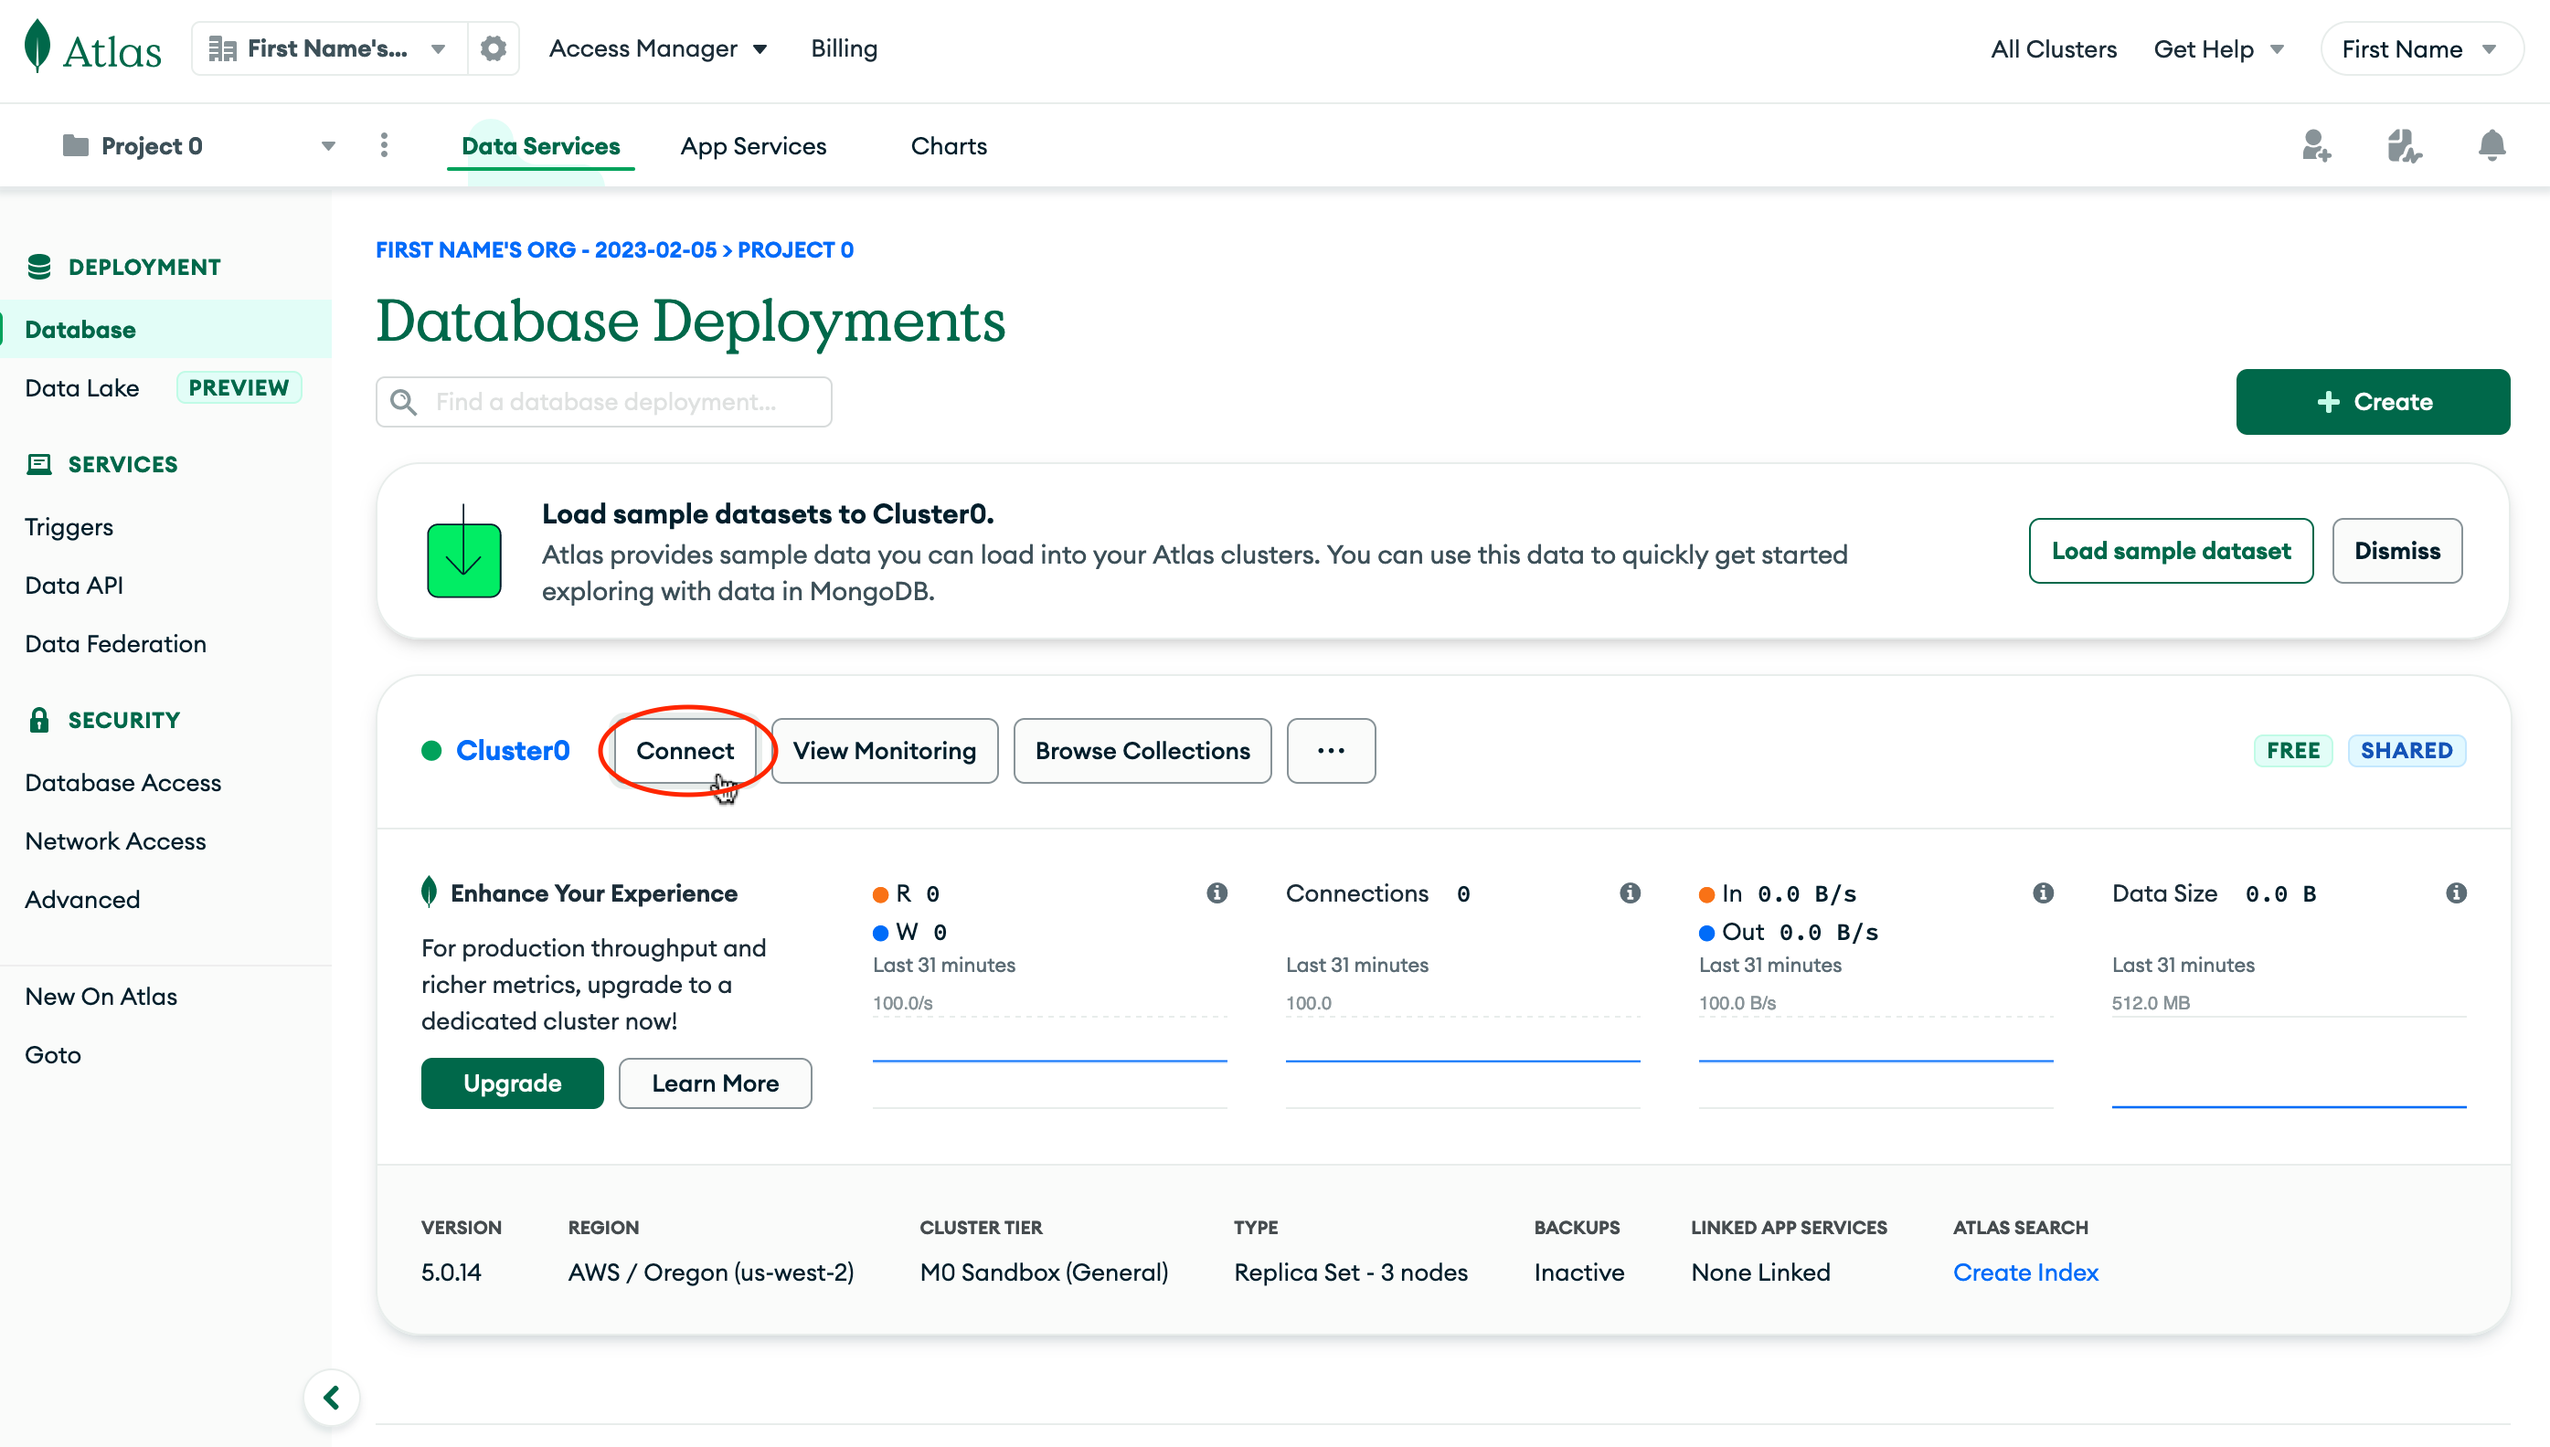
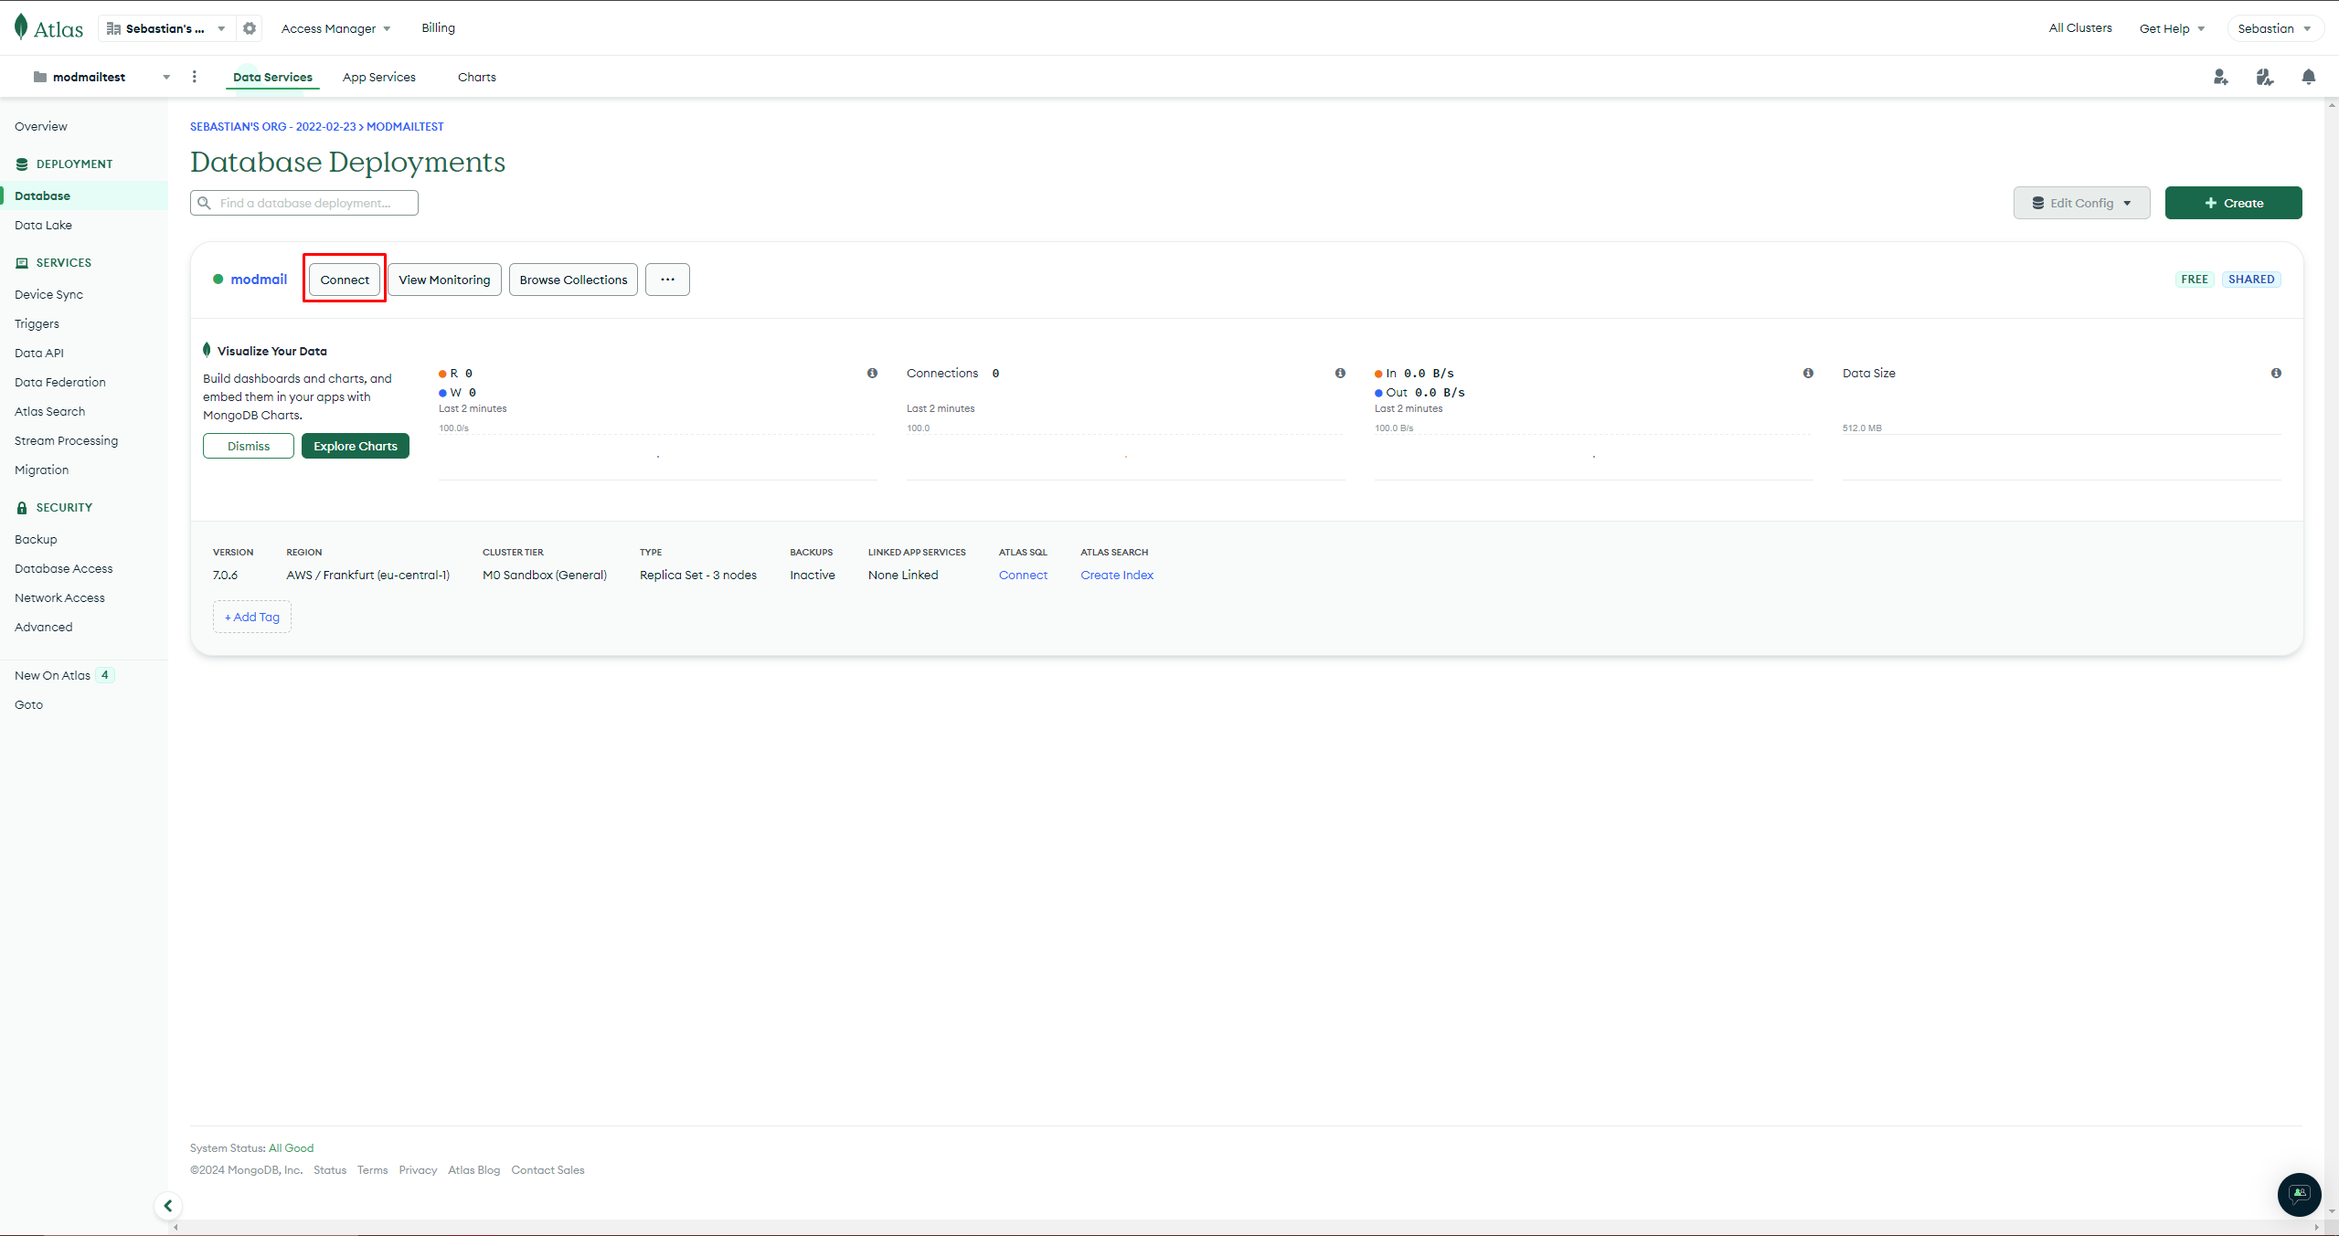
Updated to the new mongo connect UI

diff --git a/installation/README.md b/installation/README.md
@@ -227,7 +227,7 @@ Next, we will need to generate a _MongoDB connection string_. Simply click **Con
 
  
 
-<figure><img src="../.gitbook/assets/Image20.png" alt=""><figcaption><p>Choose <strong>Connect your application</strong>.</p></figcaption></figure>
+<figure><img src="../.gitbook/assets/Image20.png" alt=""><figcaption><p>Choose <strong>Drivers</strong>.</p></figcaption></figure>
 
  
 
